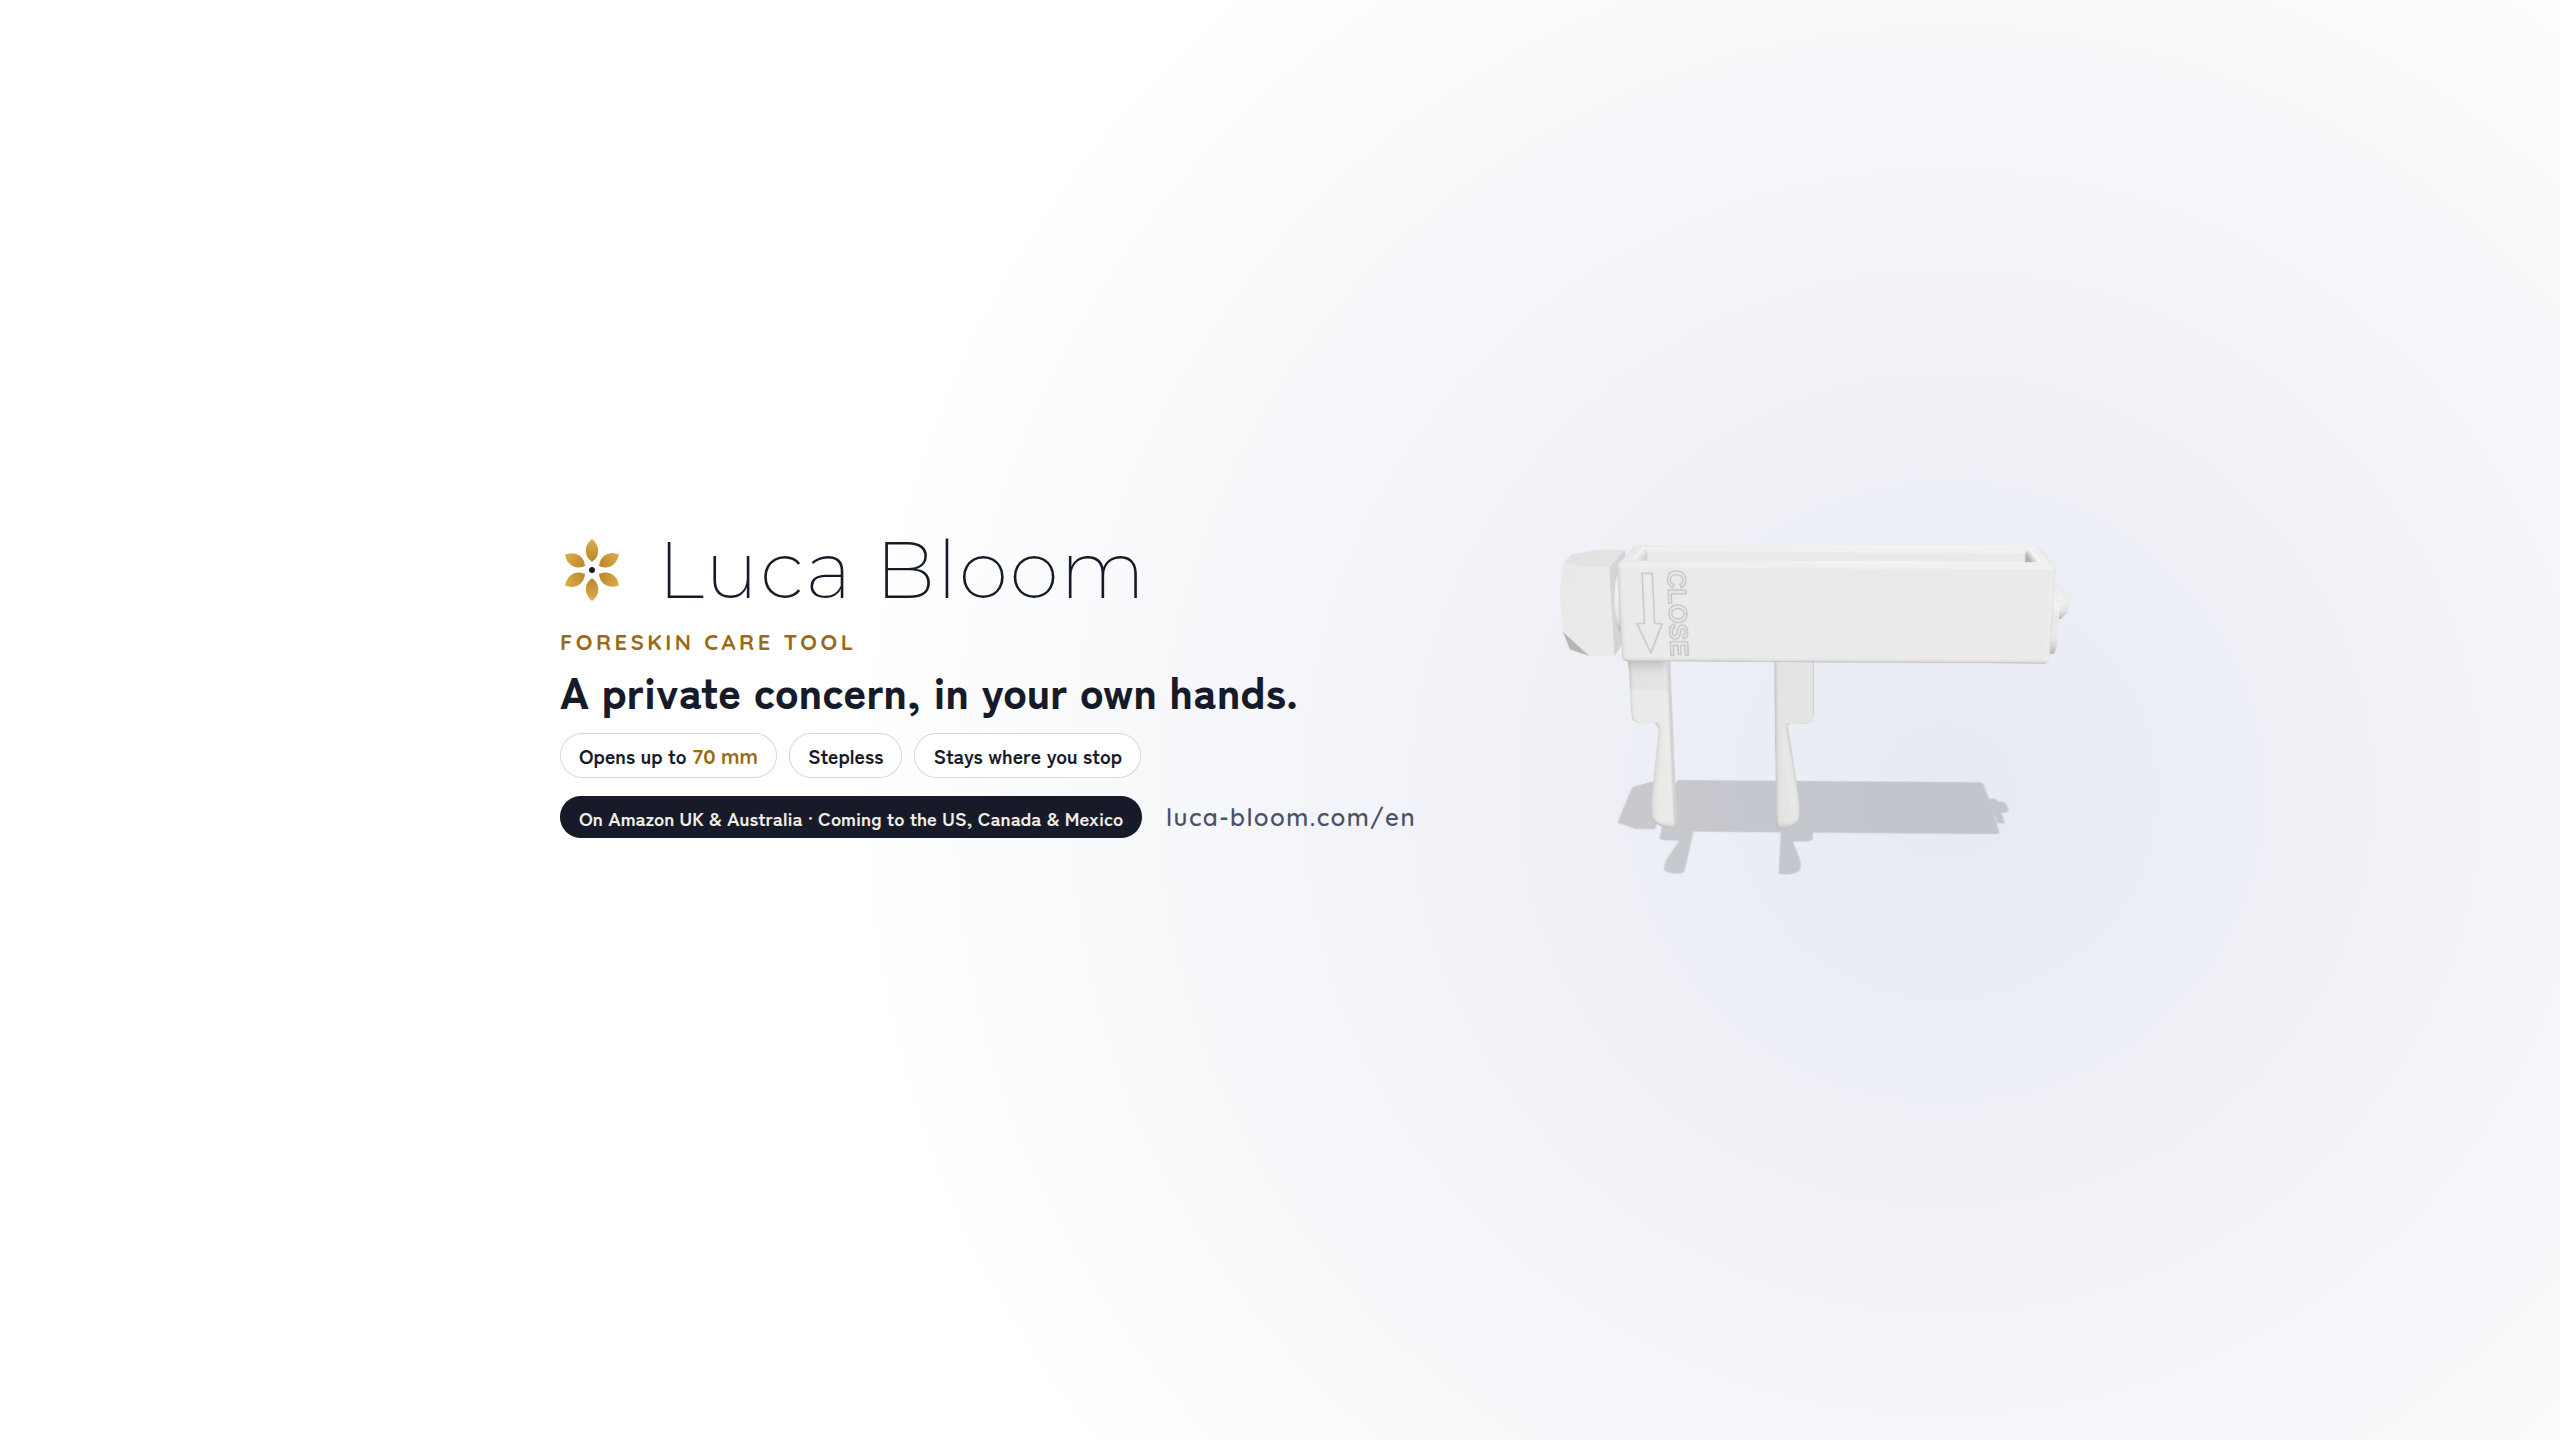
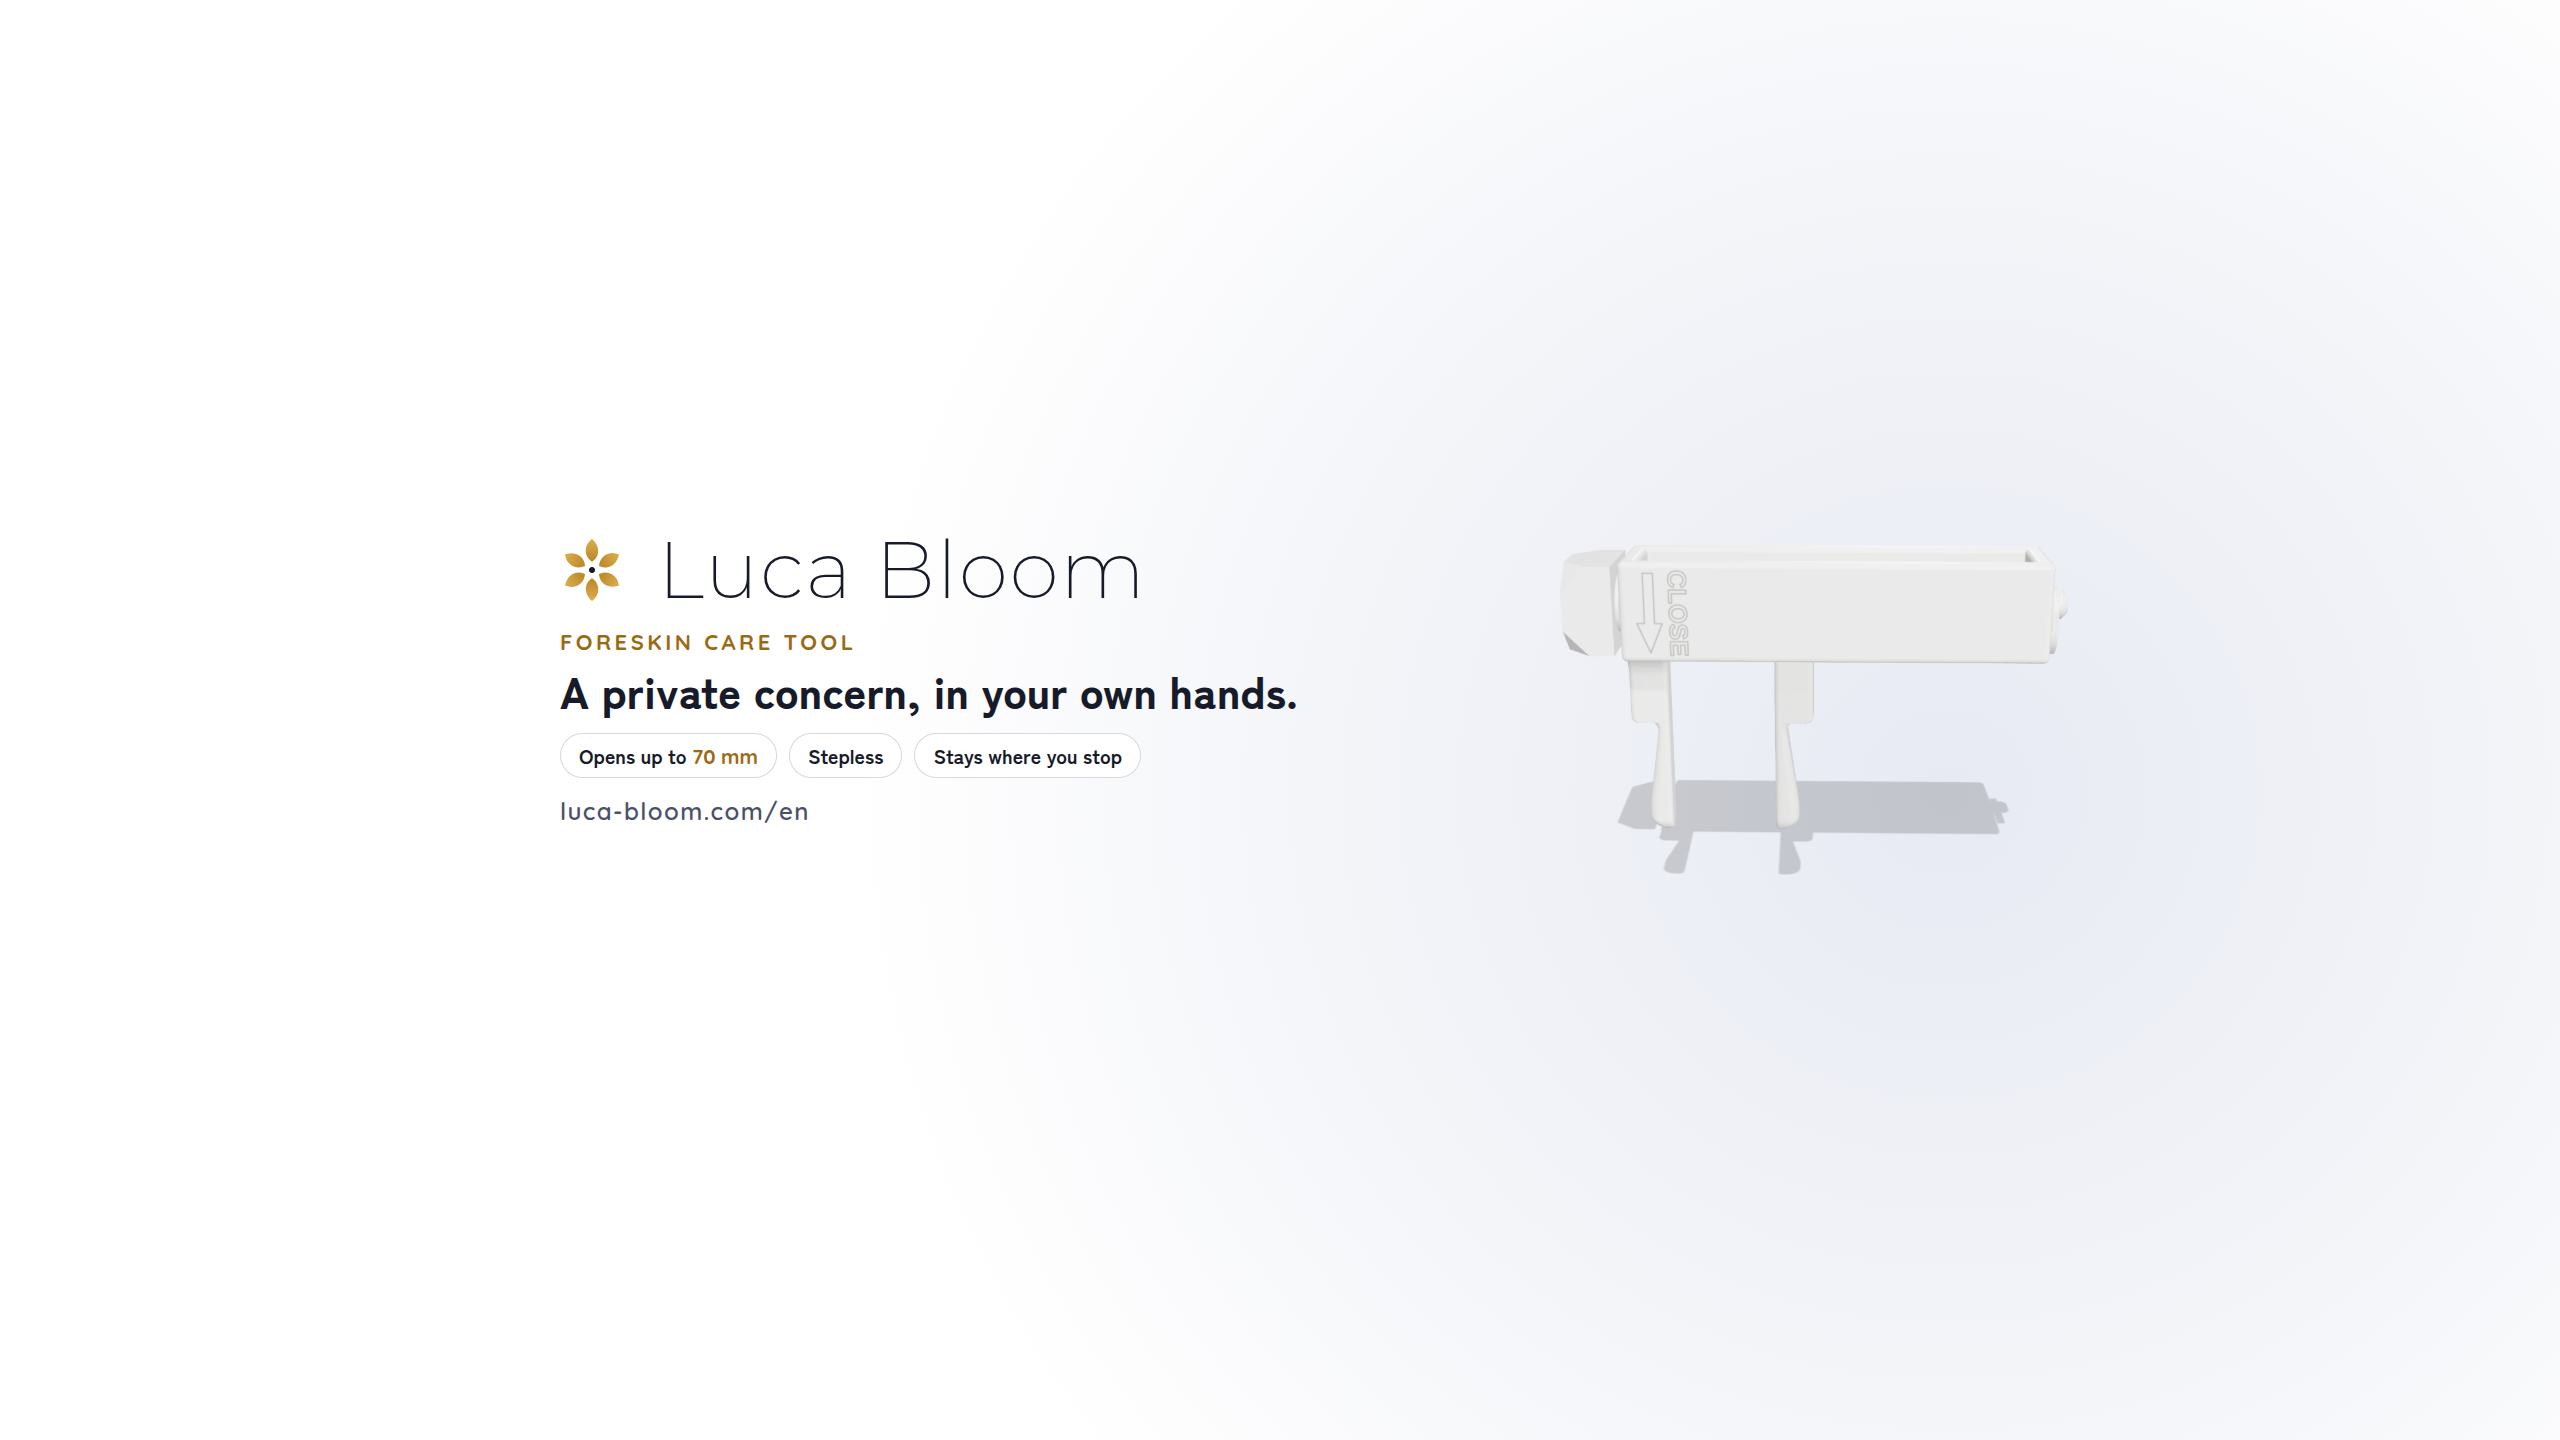
SNSバナー・紹介文から販売国を外し、販売国が増えてもそのまま使えるように
Claude-Session: https://claude.ai/code/session_016YenGTG3x62jvD6ZRQeA6d

Changed region(s): [[0.2188, 0.5312, 0.5312, 0.5938]]

diff --git a/sns/en/README.md b/sns/en/README.md
@@ -33,30 +33,30 @@
 
 ## プロフィール文（英語・日本語訳）
 
-広報は英語1本で行うため、英国・オーストラリア・米国・カナダ・メキシコの5か国共通です。各国の規制に合わせ、病名・効果・比較・価格・「限定」を入れていません。
+広報は英語1本で行うため、全市場共通です。販売国が増えても書き換えずに使えるよう、国名は入れていません。各国の規制に合わせ、病名・効果・比較・価格・「限定」を入れていません。
 
-**X（149文字／上限160文字）**
+**X（155文字／上限160文字）**　名前欄：`Luca Bloom | Foreskin care tool`
 
 ```
-Foreskin care tool from Tokyo. Opens up to 70 mm, stepless, stays where you stop. Not a medical device. 18+. On Amazon UK & AU. US/CA/MX: vote below.
+Foreskin care tool from Tokyo. Opens up to 70 mm, stepless, stays where you stop. Discreet box. Not a medical device. 18+. Available on Amazon: link below.
 ```
 
-日本語訳：東京発の包皮ケアツール。最大70mmまで無段階に開き、止めた位置で保たれます。医療機器ではありません。18歳以上。Amazon 英国・豪州で販売中。米国・カナダ・メキシコの方は下のリンクから投票を。
+日本語訳：東京発の包皮ケアツール。最大70mmまで無段階に開き、止めた位置で保たれます。中身がわからない箱でお届け。医療機器ではありません。18歳以上。Amazonで販売中：下のリンクから。
 
-**Instagram・Threads（138文字／上限150文字）**　名前欄：`Luca Bloom | Foreskin care`（26文字／上限30文字）
+**Instagram・Threads（140文字／上限150文字）**　名前欄：`Luca Bloom | Foreskin care`（26文字／上限30文字）
 
 ```
 Foreskin care tool
 ▷ Opens up to 70 mm, stepless
 ▷ Stays put when you let go
+▷ Discreet box
 Not a medical device · 18+
-On Amazon UK & AU
-US/CA/MX: vote ↓
+Available on Amazon ↓
 ```
 
-日本語訳：包皮ケアツール／▷ 最大70mmまで無段階に開く／▷ 手を離しても止まる／医療機器ではありません・18歳以上／Amazon 英国・豪州で販売中／米国・カナダ・メキシコの方は投票を↓
+日本語訳：包皮ケアツール／▷ 最大70mmまで無段階に開く／▷ 手を離しても止まる／▷ 中身がわからない箱／医療機器ではありません・18歳以上／Amazonで販売中↓
 
-プロフィールのリンク：`https://luca-bloom.com/en/`（英語LP。画面上部の「Language」から米国・カナダ・メキシコの投票ページへ移れます）
+プロフィールのリンク：`https://luca-bloom.com/en/`（英語LP。画面上部の「Language」から各国のページへ移れます）
 
 ## 投稿のテーマ配分（30本）
 

diff --git a/sns/en/brand/README.md b/sns/en/brand/README.md
@@ -3,12 +3,12 @@
 海外アカウント（X・Instagram・Threads・Facebook・YouTube）のプロフィール設定に使う画像と紹介文です。
 画像は `npm run sns:brand`（`tools/sns/build-brand.mjs`）で作り直せます。文言は海外LPと同じで、各国の規制に合わせた表現だけを使っています（病名・効果・比較・価格・「限定」を入れない）。製品の絵は LP と同じ3Dモデルから描いています。
 
-## 5か国共通
+## 全市場共通
 
-広報は英語1本で行うため、画像は英国・オーストラリア・米国・カナダ・メキシコの5か国共通です。
+広報は英語1本で行うため、画像は全市場共通です。販売国が増えても作り直さずに使えるよう、国名・販売先は入れていません。
 
-- 右上・下の案内：On Amazon UK &amp; Australia · Coming to the US, Canada &amp; Mexico（Amazon 英国・豪州で販売中・米国・カナダ・メキシコで近日発売）
-- リンク先：luca-bloom.com/en（英語LP。画面上部の「Language」から米国・カナダ・メキシコのページへ移れます）
+- リンク先：luca-bloom.com/en（英語LP。画面上部の「Language」から各国のページへ移れます）
+- 例外：投票の呼びかけ画像（`vote-*`）は、米国・カナダ・メキシコの投票期間だけ使う投稿用のため国名が入っています
 
 ## ファイル
 
@@ -27,4 +27,4 @@
 
 ## 紹介文
 
-5か国共通の英語の紹介文は `sns/en/README.md` にあります。
+全市場共通の英語の紹介文は `sns/en/README.md` にあります。
